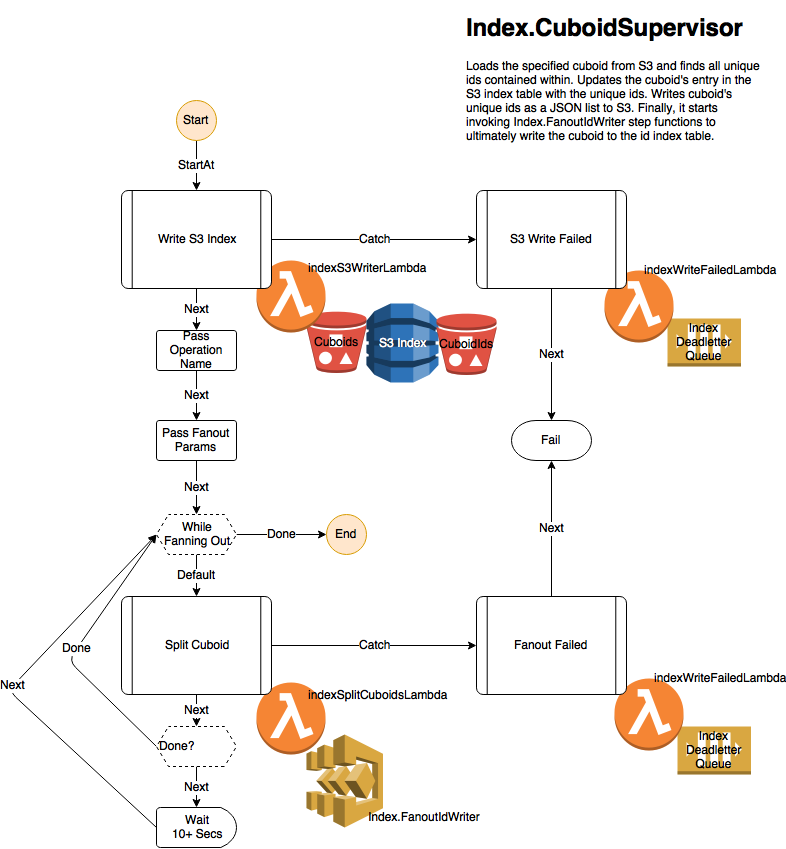
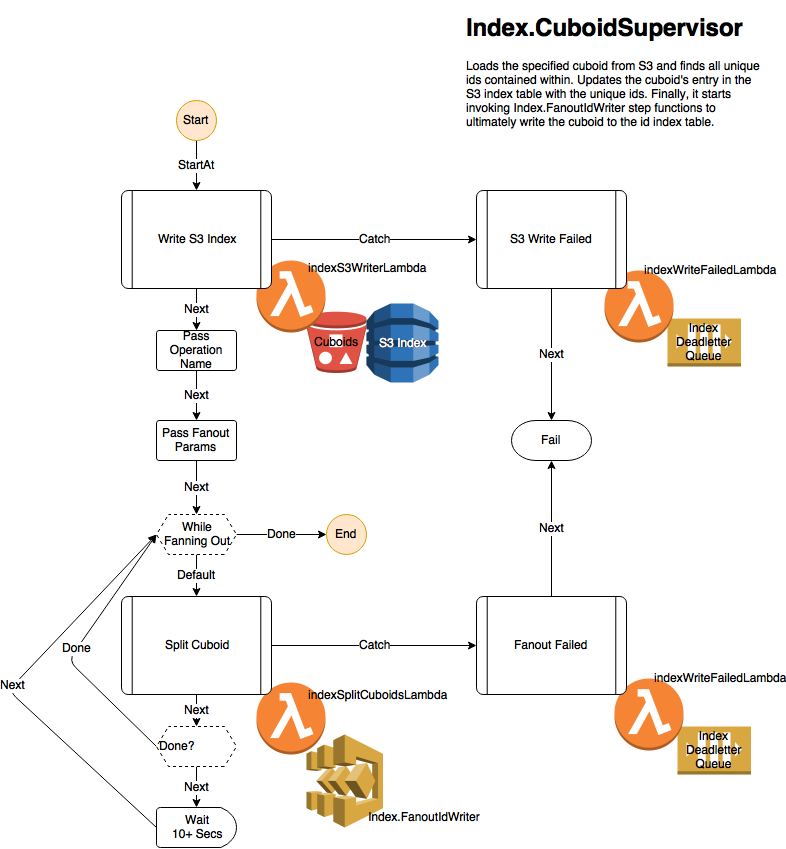
Remove S3 bucket for cuboid ids.
Bucket not needed. Ids already in the S3 index.

Changed region(s): [[0.5802, 0.0919, 0.9466, 0.1837], [0.5496, 0.3675, 0.6412, 0.4594]]

diff --git a/cloud_formation/configs/idindexing.py b/cloud_formation/configs/idindexing.py
@@ -27,22 +27,6 @@ for annotation (object) id indexing.  When building from scratch, it should
 be run after the CloudFormation cachedb config.
 """
 
-def get_bucket_life_cycle_rules():
-    """
-    Generate the expiration policy for the cuboid_ids bucket.  This bucket
-    is a temporary holding place for cuboid ids passed between step function
-    states.  Because data passed between states is limited to 32K, the bucket
-    is used, instead, to ensure data limits aren't exceeded.
-    """
-    return {
-        'Rules': [
-            {
-                'ExpirationInDays': 2,
-                'Status': 'Enabled'
-            }
-        ]
-    }
-
 def create_config(session, domain):
     """Create the CloudFormationConfiguration object."""
     config = CloudFormationConfiguration('idindexing', domain, const.REGION)
@@ -54,18 +38,6 @@ def create_config(session, domain):
     config.add_arg(Arg.String(
         "LambdaCacheExecutionRole", role,
         "IAM role for multilambda." + domain))
-
-    cuboid_ids_bucket_name = names.cuboid_ids_bucket
-    if not aws.s3_bucket_exists(session, cuboid_ids_bucket_name):
-        life_cycle_cfg = get_bucket_life_cycle_rules()
-        config.add_s3_bucket(
-            'cuboidIdsBucket', cuboid_ids_bucket_name, 
-            life_cycle_config=life_cycle_cfg)
-
-    config.add_s3_bucket_policy(
-        "cuboidBucketPolicy", cuboid_ids_bucket_name,
-        ['s3:GetObject', 's3:PutObject'],
-        { 'AWS': role})
 
     lambda_bucket = aws.get_lambda_s3_bucket(session)
     config.add_lambda(
